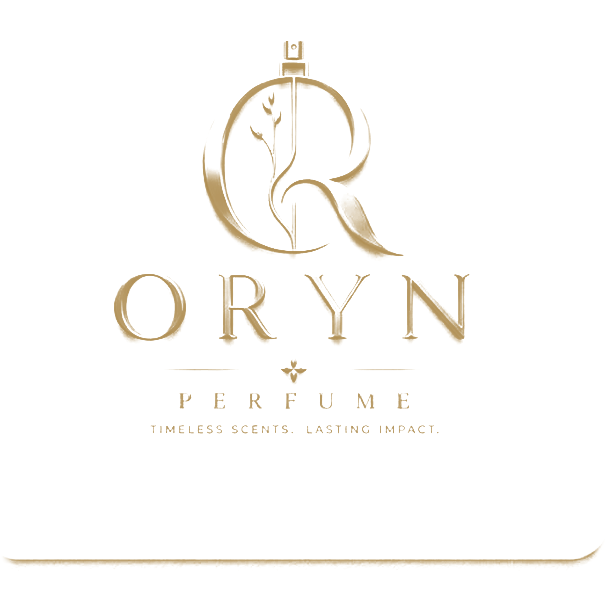
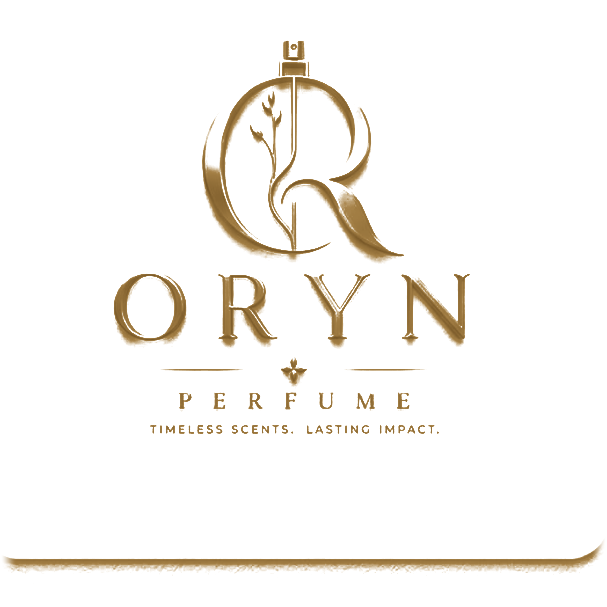
Deepen the emblem gold and add a soft shadow so it reads on the bright backdrop
🤖 Generated with Codebuff

diff --git a/src/app/page.tsx b/src/app/page.tsx
@@ -123,7 +123,7 @@ export default function HomePage() {
                 fill
                 priority
                 sizes="(max-width: 640px) 64vw, (max-width: 1024px) 42vw, 26vw"
-                className="object-contain"
+                className="object-contain drop-shadow-[0_10px_32px_rgba(22,15,7,0.55)]"
               />
             </div>
           </div>

diff --git a/scripts/extract_emblem.py b/scripts/extract_emblem.py
@@ -1,21 +1,31 @@
 """One-off: extract the emblem from the ivory plate as a transparent PNG.
 
-- Alpha: smoothstep between t=0.08 (paper/soft shadows -> gone) and t=0.22
-  (emblem body -> fully opaque), where t = tone distance from the paper.
-- Color: pulled 55% toward the site gold so the emblem reads on the dark hero
-  while keeping its internal shading.
+v2 — deeper, richer treatment so the mark reads against the warm backdrop:
+- Alpha: smoothstep between t=0.055 (paper/soft shadows -> gone) and t=0.14
+  (emblem body -> fully opaque), then gamma 0.8 to lift thin antialiased strokes.
+  t = tone distance from the paper, where paper luminance is ~238.
+- Color: emblem shading is mapped onto a light-gold -> deep-bronze ramp so the
+  mark keeps depth but sits darker and more saturated than before.
 """
 from PIL import Image
 
 SRC = "public/images/oryn-brand-plate.png"
 OUT = "public/images/oryn-emblem.png"
 
-GOLD = (169, 133, 69)          # --gold
-PAPER_LUM = 238.0              # luminance of #f4efe6
+LIGHT_GOLD = (198, 158, 92)    # highlights
+DEEP_BRONZE = (118, 86, 38)    # deepest strokes
+PAPER_LUM = 238.0
+T_MAX = 0.34                   # highest tone-distance found in the plate
+
 
 def smoothstep(e0, e1, x):
     u = max(0.0, min(1.0, (x - e0) / (e1 - e0)))
     return u * u * (3 - 2 * u)
+
+
+def lerp(a, b, k):
+    return int(round(a + (b - a) * k))
+
 
 img = Image.open(SRC).convert("RGB")
 w, h = img.size
@@ -29,23 +39,32 @@ for y in range(h):
         r, g, b = src[x, y]
         lum = 0.299 * r + 0.587 * g + 0.114 * b
         t = (PAPER_LUM - lum) / PAPER_LUM
-        a = smoothstep(0.08, 0.22, t)
+        a = smoothstep(0.055, 0.14, t) ** 0.8
         if a <= 0.0:
             dst[x, y] = (0, 0, 0, 0)
             continue
-        # pull the muted tone toward the site gold, keep shading
-        nr = int(r + (GOLD[0] - r) * 0.55)
-        ng = int(g + (GOLD[1] - g) * 0.55)
-        nb = int(b + (GOLD[2] - b) * 0.55)
+        k = min(1.0, max(0.0, t / T_MAX)) ** 0.9
+        nr = lerp(LIGHT_GOLD[0], DEEP_BRONZE[0], k)
+        ng = lerp(LIGHT_GOLD[1], DEEP_BRONZE[1], k)
+        nb = lerp(LIGHT_GOLD[2], DEEP_BRONZE[2], k)
         dst[x, y] = (nr, ng, nb, int(a * 255))
+
+# soft feather at the canvas edges so nothing hard-cuts
+F = 16
+for y in range(h):
+    for x in range(w):
+        r, g, b, a = dst[x, y]
+        if a == 0:
+            continue
+        d = min(x, y, w - 1 - x, h - 1 - y)
+        if d < F:
+            dst[x, y] = (r, g, b, int(a * smoothstep(0, F, d)))
 
 out.save(OUT, optimize=True)
 print("saved:", OUT, out.size)
 
-# sanity: opaque pixel share + average opaque color
-opaque = [(dst[x, y], x, y) for y in range(0, h) for x in range(0, w) if dst[x, y][3] > 200]
+opaque = [dst[x, y] for y in range(h) for x in range(w) if dst[x, y][3] > 200]
 print("fully opaque pixels:", len(opaque), f"({100 * len(opaque) / (w * h):.2f}%)")
 if opaque:
-    avg = tuple(int(sum(p[0][i] for p in opaque) / len(opaque)) for i in range(4))
-    xs = [p[1] for p in opaque]; ys = [p[2] for p in opaque]
-    print("avg opaque color:", avg[:3], "bbox:", (min(xs), min(ys), max(xs), max(ys)))
+    avg = tuple(int(sum(p[i] for p in opaque) / len(opaque)) for i in range(3))
+    print("avg opaque color:", avg)
